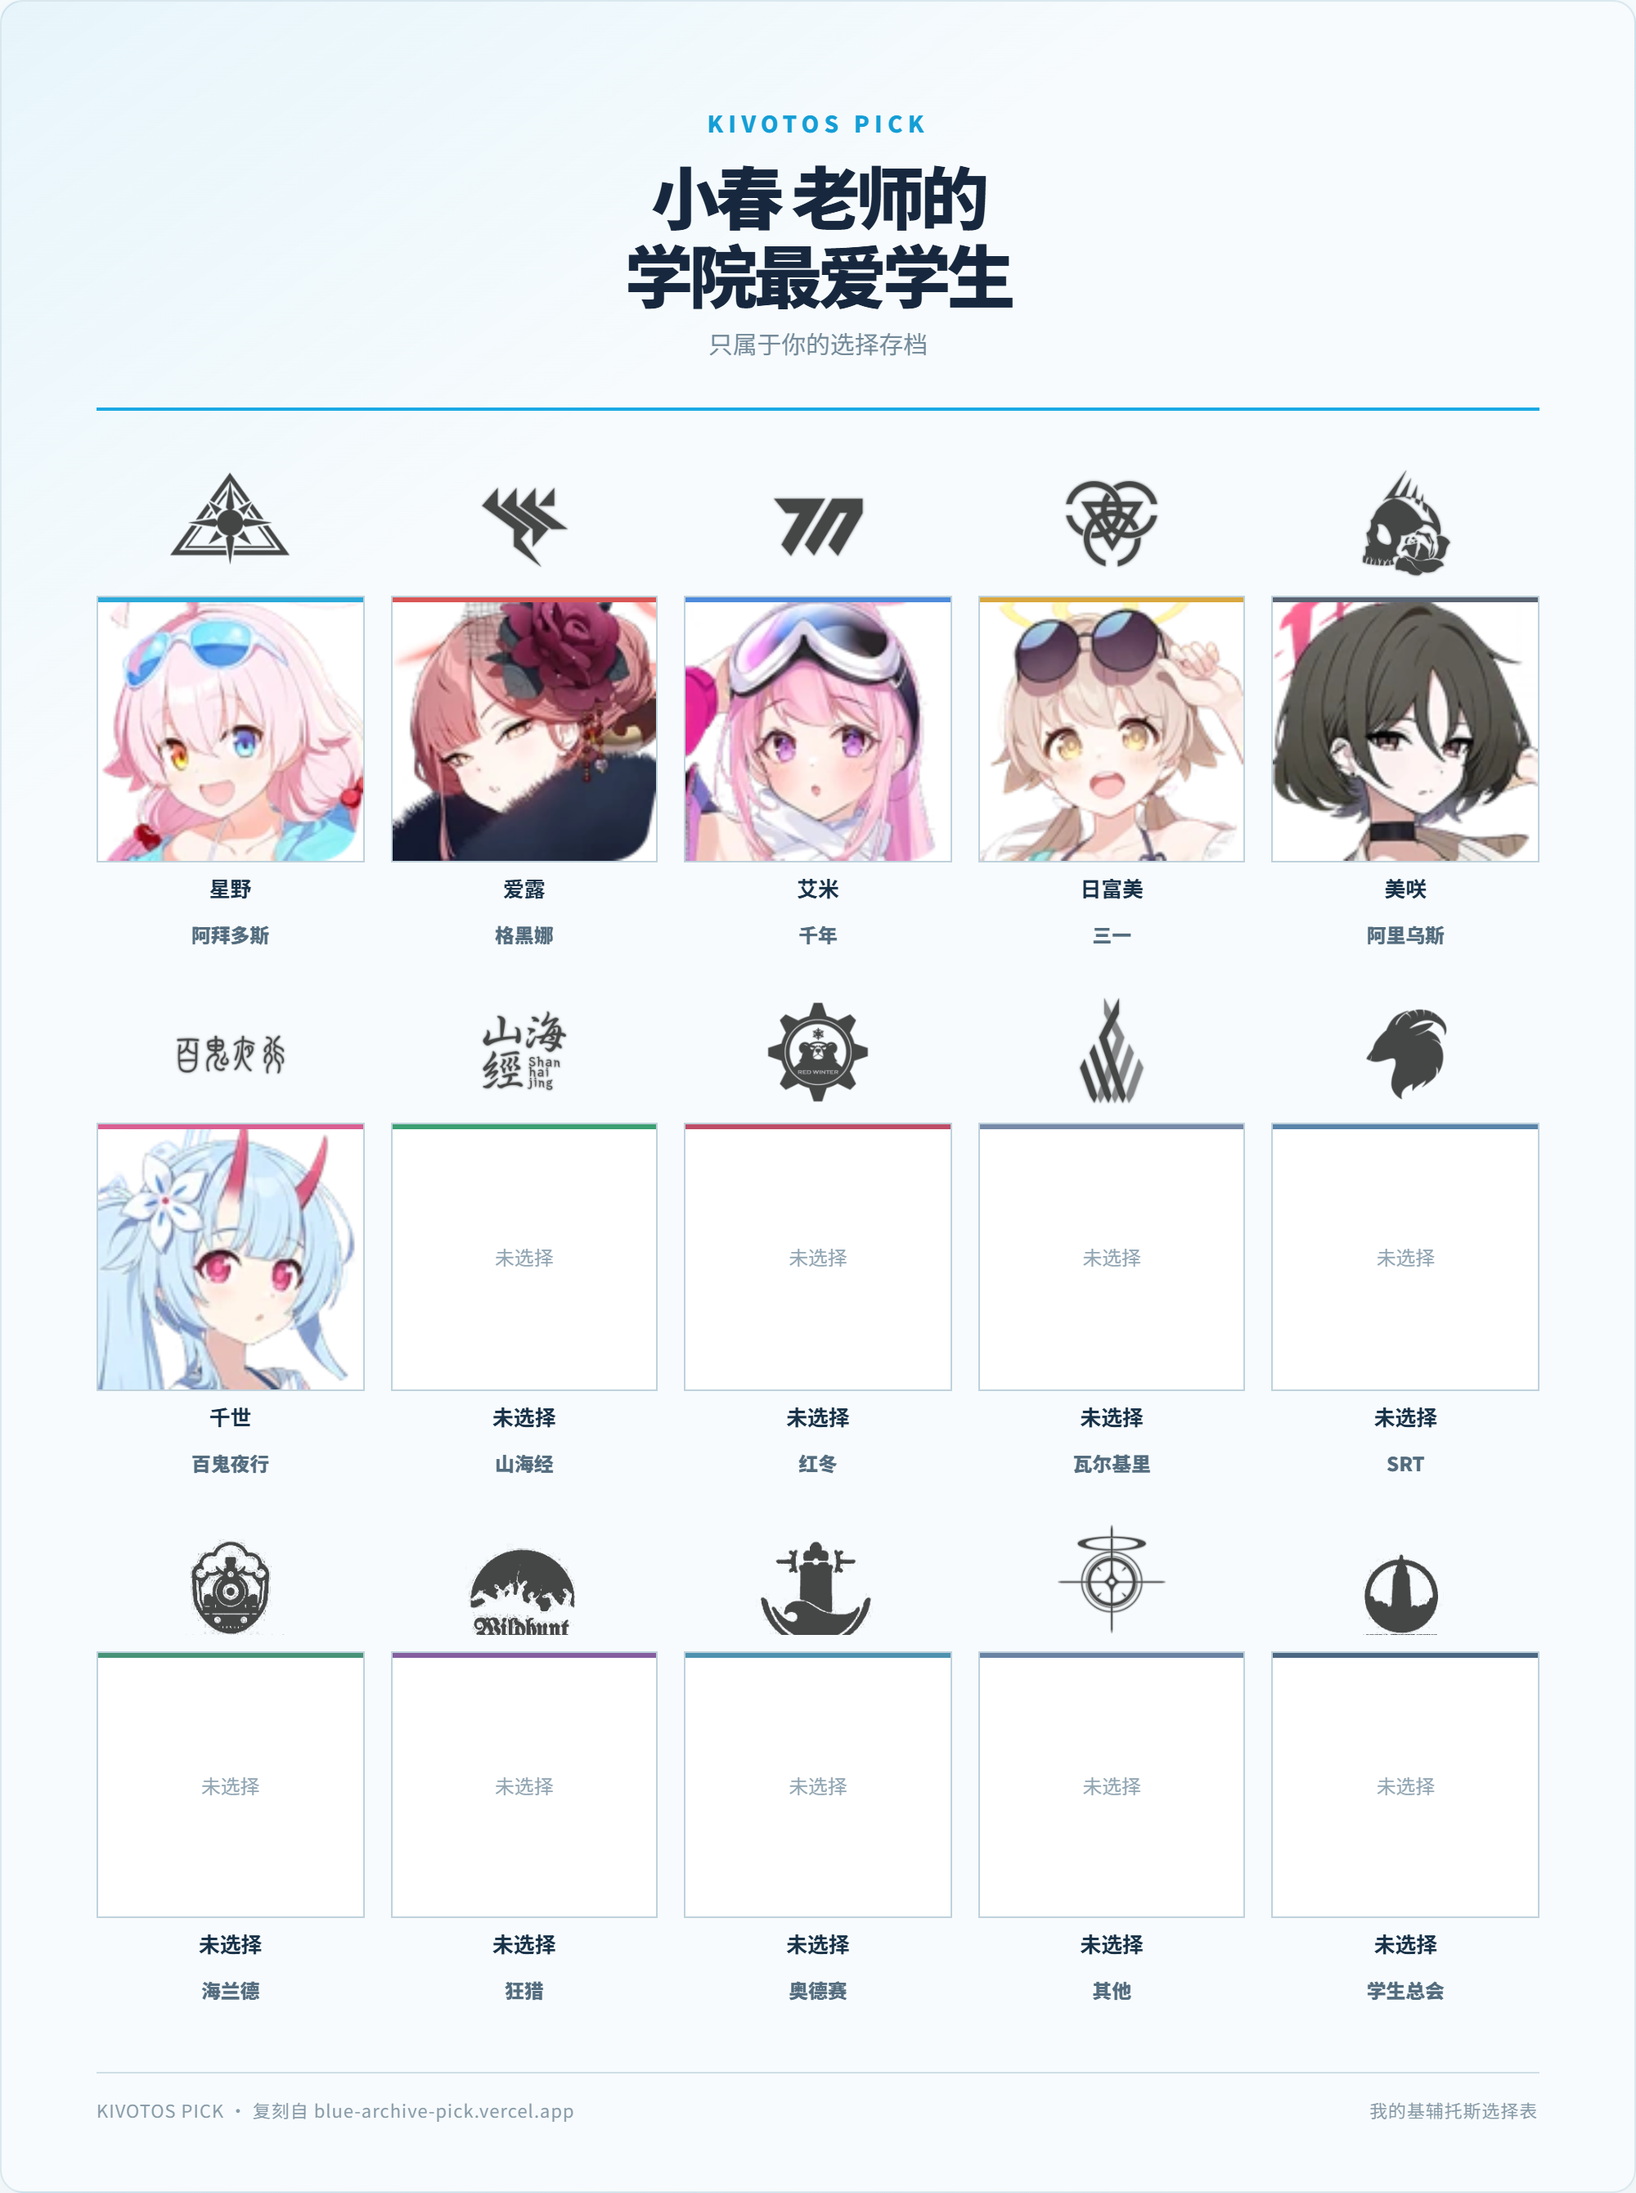
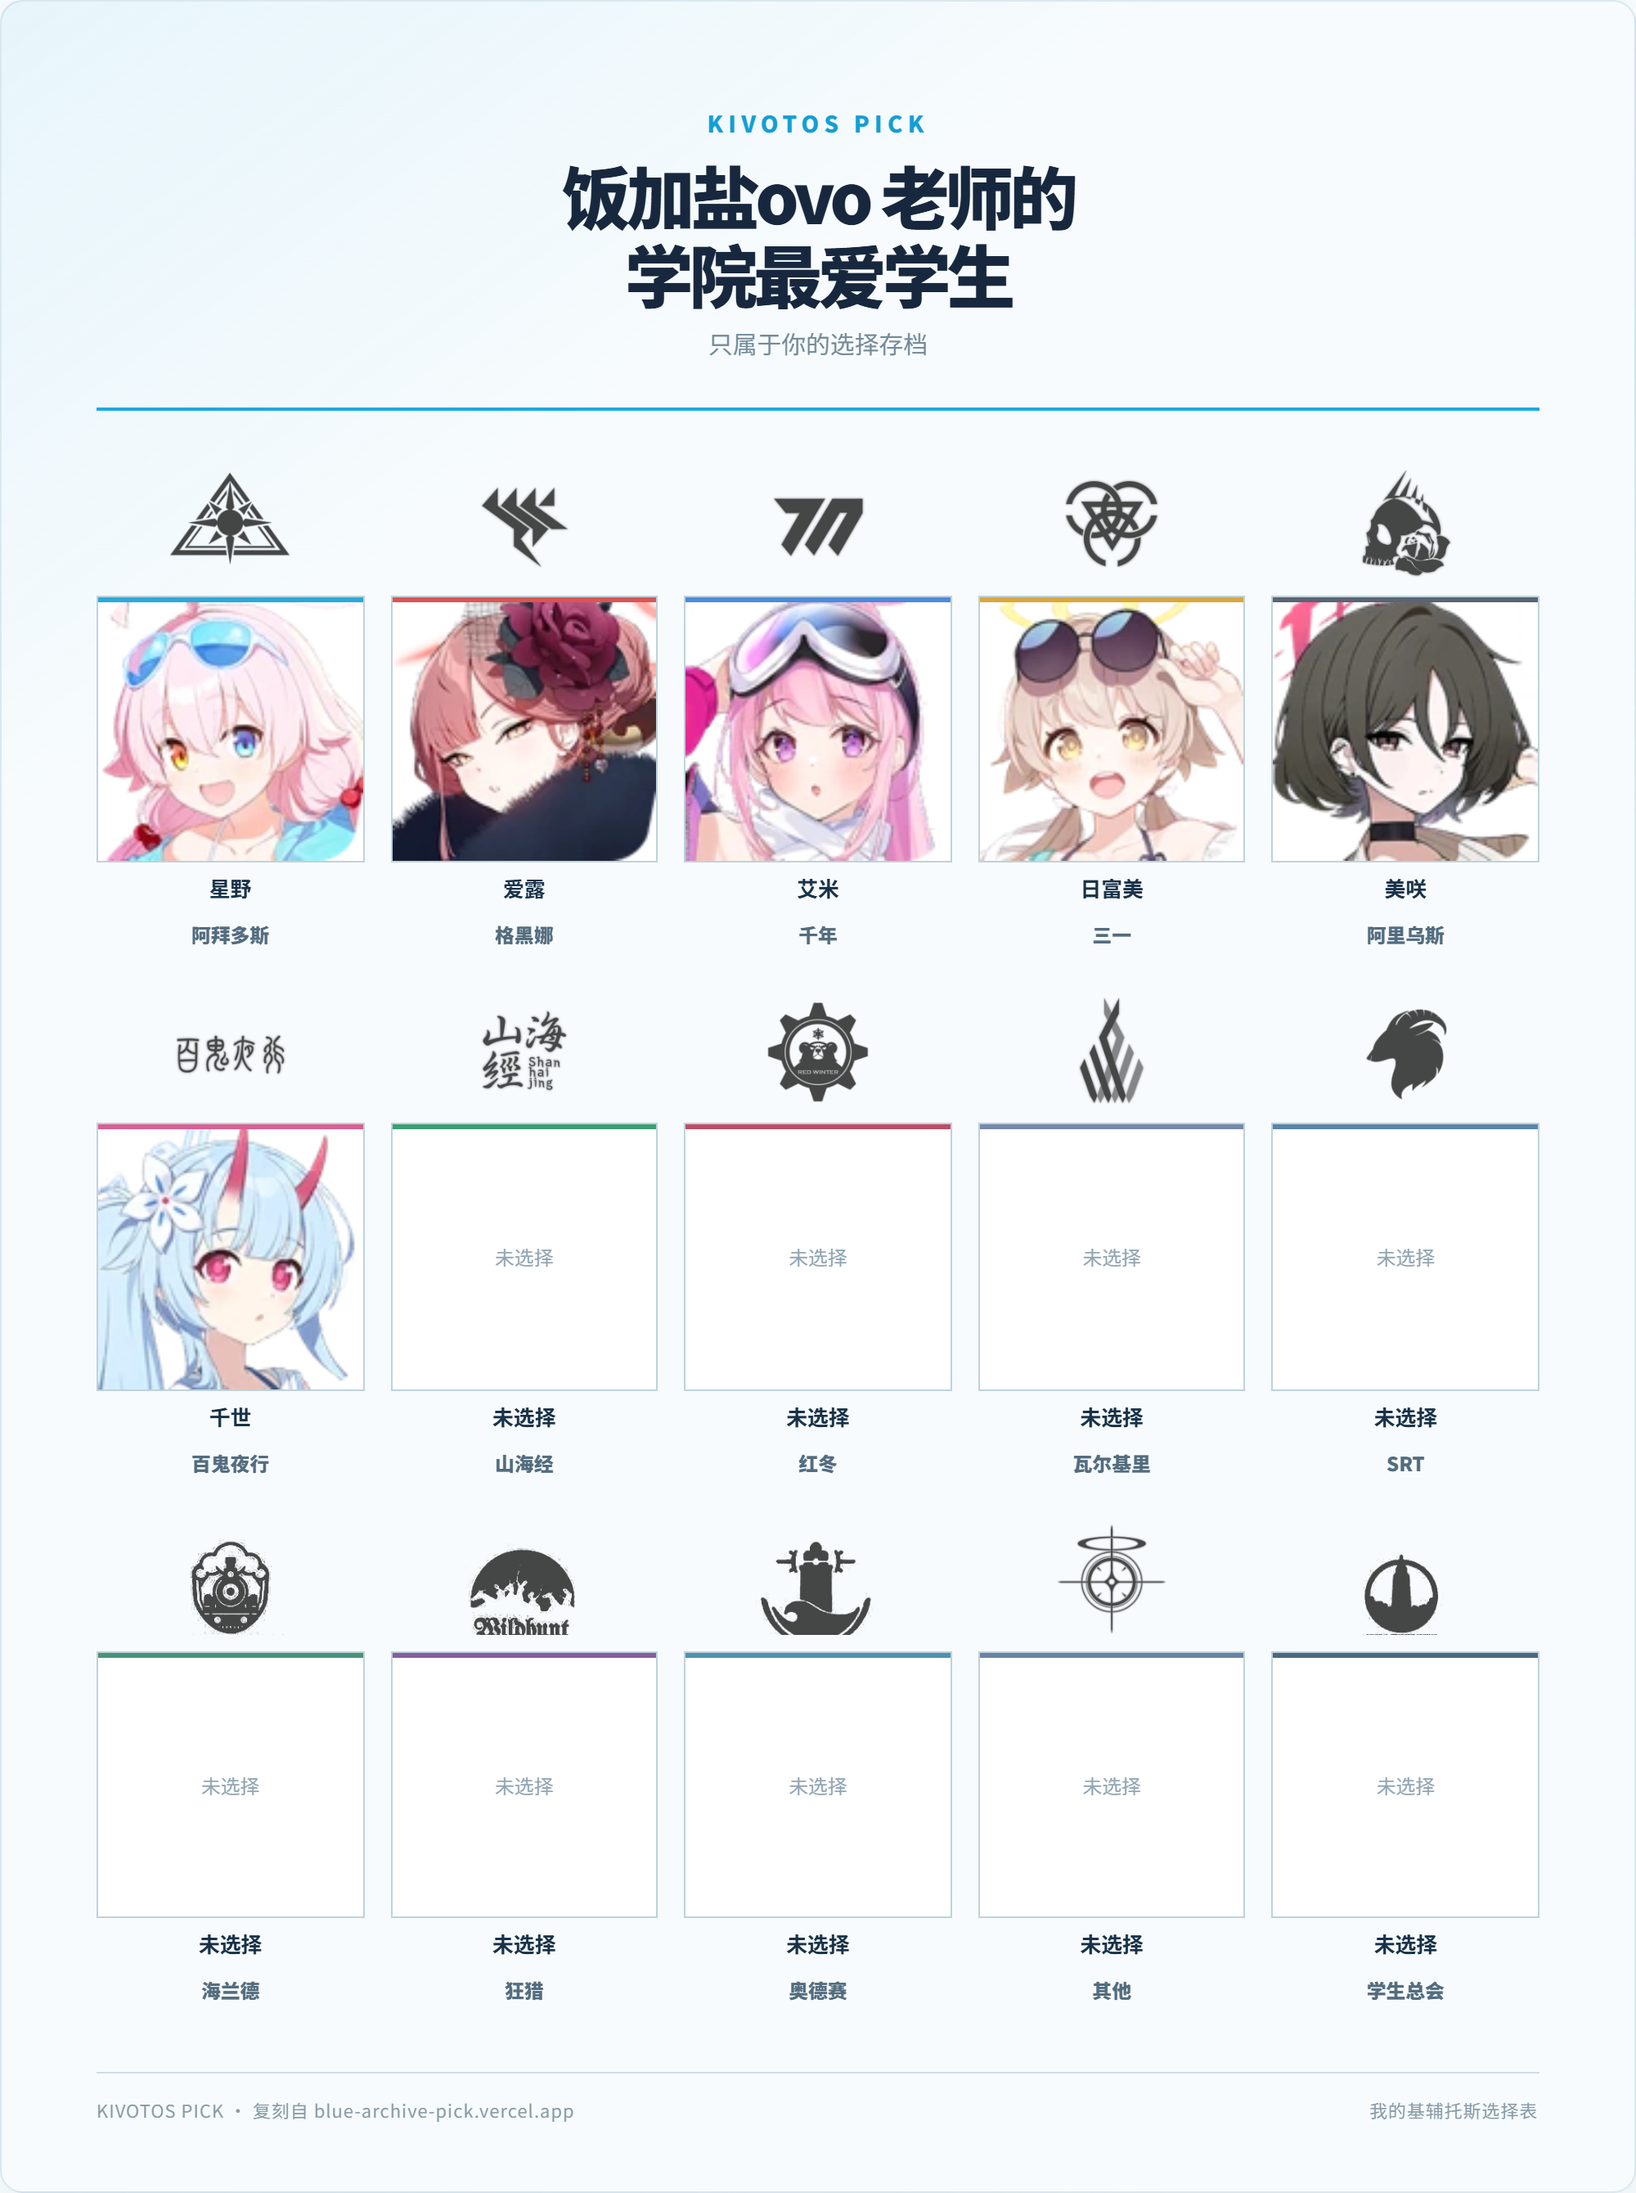
fix(data): 「星野（武装）」重复形态合并；「白子＊恐怖」拆为独立学生
## 两处按反馈修正的数据规则
都写在 scripts/build-students.mjs 里，并在 stats 中留痕便于日后核对：

1. **同名形态只保留一套**（duplicateFormsDropped）
   星野的「星野（武装）」有两套立绘（10098 / 10099），观感几乎一样，
   放在外观条里纯属噪音。按 DefaultOrder 保留靠前的一套。
   → 星野外观数 4 → 3

2. **＊形态算独立学生**（terrorSplit）
   「白子＊恐怖」与「白子」立绘与设定都是另一名角色，不应作为同一角色的两套外观。
   拆出后单独成一名学生，名字用完整形态名以便区分。
   → 学生数 200 → 201，阿拜多斯 6 → 7（与原站 7 张卡片对齐）

统计：total 201 / skinTotal 328 / extraSkins 127。

## README 配图
- 三张原有配图重新生成，署名由「小春」改为站点用户名「饭加盐ovo」
- 新增 docs-skin-bar.png（外观条）：能同时看到「白子＊恐怖」独立成卡、
  卡片右上角的外观数角标、以及星野的 3 套外观

## 文档
改写「学生数据是怎么对齐的」一节：说明换装不再被排除、＊形态与重名形态的处理，
并更新统计表（total 201 / skinTotal 328 / extraSkins 127 /
duplicateFormsDropped 1 / terrorSplit 1）。

## 验证
verify-ui 的外观段新增两条断言：阿拜多斯 7 名、必须存在独立的「白子＊恐怖」；
外观数断言 4 → 3。搜索用例现在正确地命中 2 名（白子、白子＊恐怖）。

桌面 / 移动端 / 跨设备一致性（0 像素差异）/ 存储单测 / 存储浏览器 / 水合 /
文档校验全部通过。

Changed region(s): [[0.341, 0.0619, 0.651, 0.1239]]

diff --git a/types/students.ts b/types/students.ts
@@ -84,6 +84,10 @@ export interface StudentsData {
     variantSkins: number;
     /** 只有变体形态、没有基础形态的角色数（其首套外观即默认） */
     variantOnlyCharacters: number;
+    /** 同名形态被丢弃的数量（如星野的两套「武装」，观感重复只留一套） */
+    duplicateFormsDropped: number;
+    /** ＊形态被拆成独立学生的数量（如「白子＊恐怖」） */
+    terrorSplit: number;
     collabExcluded: number;
   };
   academies: Academy[];

diff --git a/README.md b/README.md
@@ -14,6 +14,10 @@
 
 ![选择板已填充](docs/docs-board-filled.png)
 
+点角色后可在网格下方挑外观（卡片右上角的数字是可选外观数）：
+
+![外观条](docs/docs-skin-bar.png)
+
 导出的图片（版式照原站的「选择表」，手机与电脑出图完全一致）：
 
 ![导出结果](docs/docs-export.png)
@@ -273,9 +277,10 @@ npm run verify:docs     # README 一致性（见下）
 | 组成 | 数量 | 中文名来源 | 头像来源 |
 | --- | --- | --- | --- |
 | 基础学生 | 144 | SchaleDB 简中，**官方译名** | SchaleDB CDN |
+| `＊` 形态拆出的独立学生 | 1（白子＊恐怖） | SchaleDB 简中 | SchaleDB CDN |
 | 剧情 NPC | 56 | **人工整理**（见下） | 镜像源 |
 | 联动角色 | 4 | — | 镜像源，仅补素材、不进选择列表 |
-| **合计** | **204** | | |
+| **合计** | **205** | | |
 
 推导过程：
 
@@ -284,31 +289,40 @@ npm run verify:docs     # README 一致性（见下）
 3. 剩下 144 个可获取角色，与原站名单的 id **完全一致**；
 4. 原站另有 56 个剧情 NPC（`npc-arona`、`npc-rin`…），SchaleDB 的 students 表**不收录**这些人，头像也不在其 CDN 上，因此中文名写在 `scripts/academies.mjs` 的 `NPC_STUDENTS` 表里。
 
-> Step 2 曾写作「排除 129 个换装变体」。现在换装不再被排除，而是作为该角色的
-> **可选外观**保留下来（见下节），所以角色数仍是 200 不变。
+> 原先这一步还会「排除 129 个换装变体」。现在换装作为该角色的**可选外观**保留
+> （见下节）；其中 `＊` 形态与重名形态另作处理，因此最终是 201 人而不是 200。
 
 ### 角色的可选外观（皮肤）
 
-一名角色的换装/异格（「星野（泳装）」「白子＊恐怖」…）不再被丢弃，
+一名角色的换装（「星野（泳装）」「爱露（新年）」…）不再被丢弃，
 而是作为该角色的**可选外观**：选人时点角色后，网格下方会出现外观条，点一下就放入该格。
 外观只影响立绘，不改变角色身份、所属学院与「一人只占一格」的口径。
 
-**学生数口径不变**：页面仍写「收录 200 名学生」，另有「可选 329 套外观」的说法。
-
 分组方式是**按 `PathName` 主干聚合**（`shiroko` / `shiroko_cycling` / `shiroko_terror`
-→ `shiroko`），实测恰好得到 144 组，与「排除变体后的基础角色数」完全一致。
-不要改用 `FamilyName + PersonalName`：SchaleDB 这两个字段本身有瑕疵
+→ `shiroko`）。不要改用 `FamilyName + PersonalName`：SchaleDB 这两个字段本身有瑕疵
 （「紫（泳装）」的 `PersonalName` 被误写成「紫草」，正确是「紫」），
 按它聚合会把一个角色拆成两个。
+
+聚合之后再套两条人工规则（`scripts/build-students.mjs`）：
+
+| 规则 | 处理 | 影响的角色 |
+| --- | --- | --- |
+| **同名形态只留一套** | 组内名字完全相同的形态按 `DefaultOrder` 只保留靠前的一个 | 星野的「武装」有两套立绘（10098/10099），观感重复，合并为一套 |
+| **`＊` 形态算独立学生** | 形如「白子＊恐怖」的异格拆出来单独成一名学生 | 白子＊恐怖（`s10100`） |
+
+> 这两条规则是**判断**而非数据事实，所以集中写在构建脚本里、并在 `stats` 中留痕
+> （`duplicateFormsDropped` / `terrorSplit`），便于日后核对或推翻。
 
 统计口径（在 `stats` 里）：
 
 | 字段 | 含义 | 值 |
 | --- | --- | --- |
-| `total` | 角色数（页面显示的学生数） | 200 |
-| `skinTotal` | 可选立绘总数 | 329 |
-| `extraSkins` | 除基础外观以外的可选外观数 | 129 |
+| `total` | 角色数（页面显示的学生数） | 201 |
+| `skinTotal` | 可选立绘总数 | 328 |
+| `extraSkins` | 除基础外观以外的可选外观数 | 127 |
 | `variantOnlyCharacters` | 只有变体形态、没有基础形态的角色数 | 1（雪玲，其首套外观即默认） |
+| `duplicateFormsDropped` | 被合并掉的重名形态 | 1 |
+| `terrorSplit` | 被拆成独立学生的 `＊` 形态 | 1 |
 
 ### 关于 NPC 中文名
 
